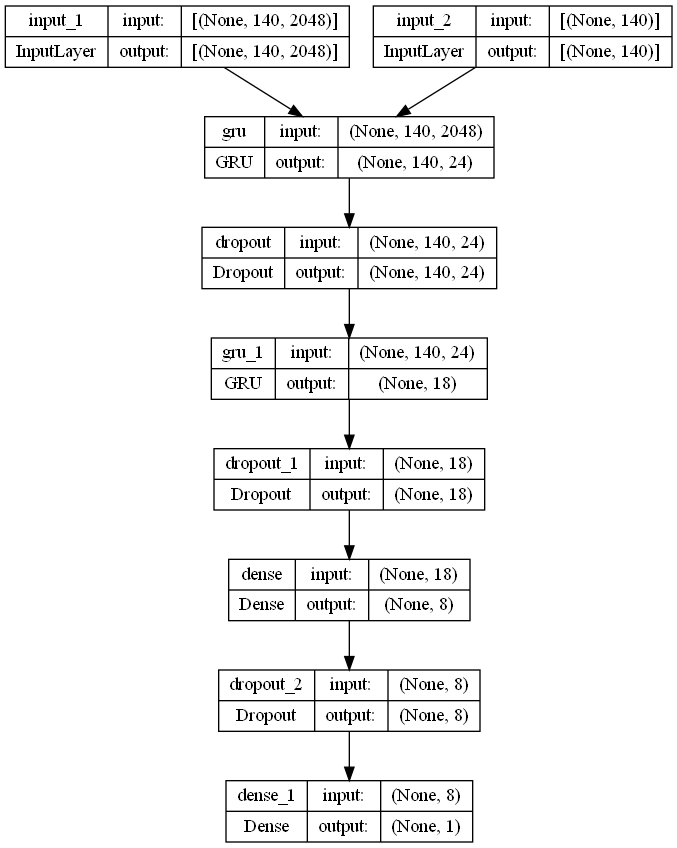
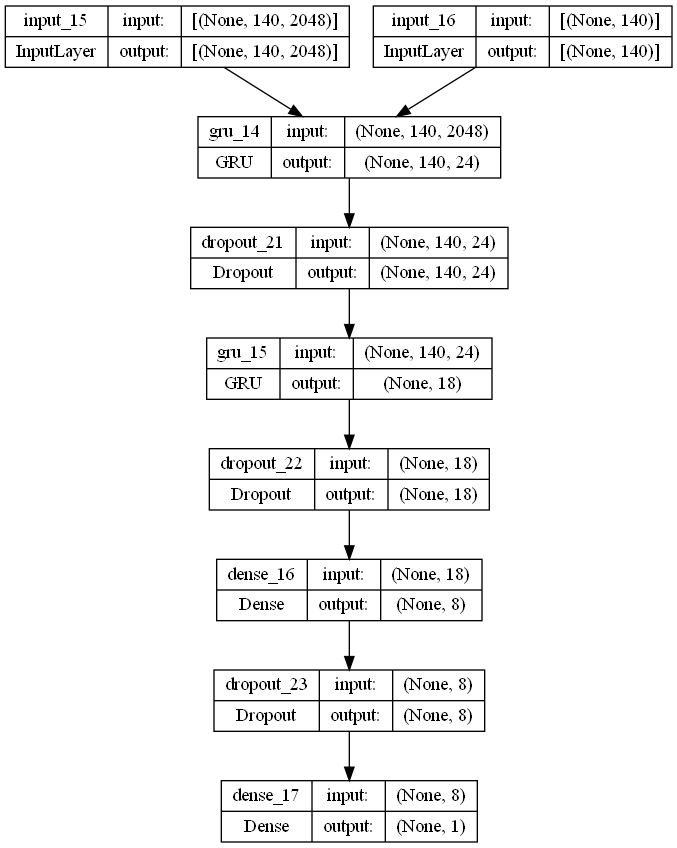
dovrebbe farsi con tensorboard ma non si fa

diff --git a/plotRNNfigo.py b/plotRNNfigo.py
@@ -15,8 +15,10 @@
 import pydot
 pydot.find_graphviz = lambda: {'dot': 'C:/Users/lucsa/.conda/envs/ThermalAI/Library/bin/dot.exe'}
 
+from ann_visualizer.visualize import ann_viz
+from keras.models import model_from_json
 
-
+import tensorflow as tf
 from tensorflow import keras
 from keras.utils.vis_utils import plot_model
 
@@ -55,3 +57,37 @@ def get_sequence_model():
 
 model = get_sequence_model()
 plot_model(model, to_file='simplified_model_diagram.png', show_shapes=True, show_layer_names=True)
+# ann_viz(model, title="My Neural Network")
+
+import os
+
+# Check if the directory exists. If not, create it.
+if not os.path.exists("logs"):
+    os.makedirs("logs/model_graph")
+
+# Directory to store TensorBoard logs
+log_dir = "logs/model_graph"
+tensorboard_callback = tf.keras.callbacks.TensorBoard(log_dir=log_dir, write_graph=True)
+
+# Dummy data for a single forward pass to generate the graph in TensorBoard
+import numpy as np
+dummy_frame_features = np.random.random((1, MAX_SEQ_LENGTH, NUM_FEATURES))
+dummy_mask = np.ones((1, MAX_SEQ_LENGTH), dtype=bool)
+
+# Perform a single forward pass
+model([dummy_frame_features, dummy_mask], training=False)
+
+# Load the TensorBoard notebook extension (skip this line if not in a notebook)
+# %load_ext tensorboard
+
+# Launch TensorBoard
+# %tensorboard --logdir logs/model_graph
+
+
+
+
+
+
+
+
+
